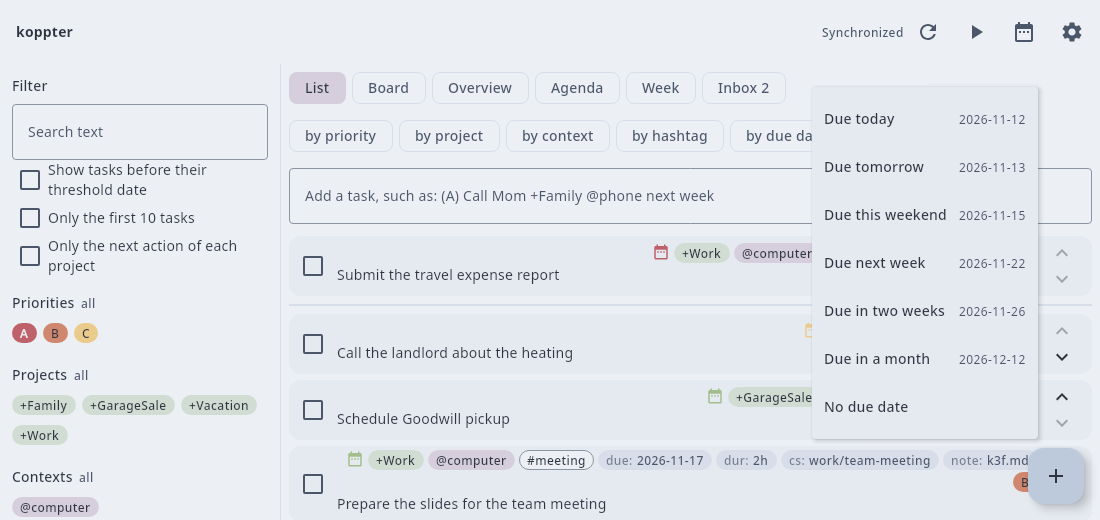
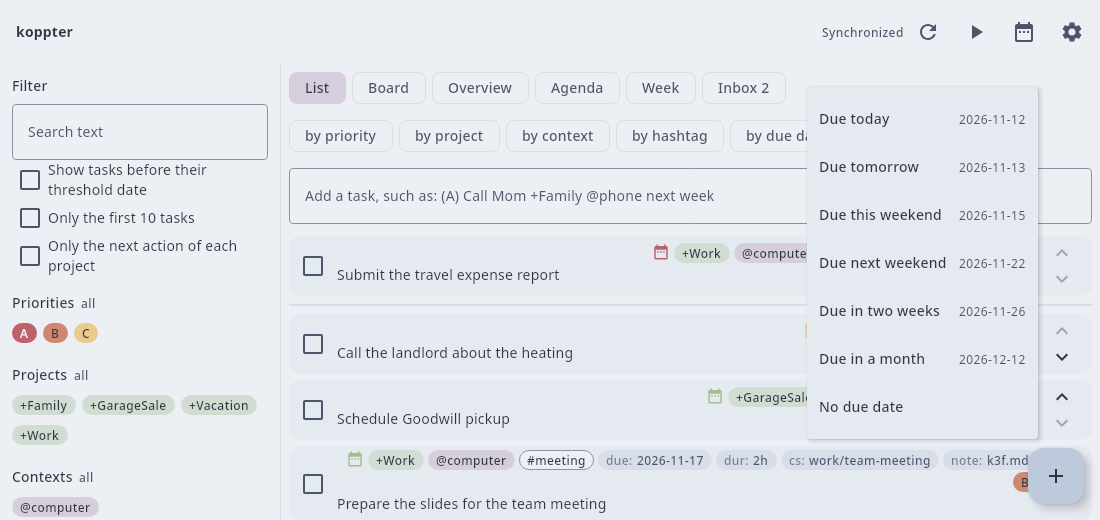
Call the due day at the end of the next week next weekend
The choice set the Sunday of the next week under the name next week, which read like a day a week from now.

diff --git a/app/src/desktopTest/kotlin/io/github/koppor/koppter/ui/AppTest.kt b/app/src/desktopTest/kotlin/io/github/koppor/koppter/ui/AppTest.kt
@@ -211,8 +211,8 @@ class AppTest {
             dueChoices(LocalDate(2026, 11, 12)).map { it.second.toString() },
         )
         // On a Sunday, this weekend is today, and on a Saturday, it is tomorrow.
-        assertEquals(listOf("today", "tomorrow", "next week", "in two weeks", "in a month"), dueChoices(LocalDate(2026, 11, 15)).map { it.first })
-        assertEquals(listOf("today", "tomorrow", "next week", "in two weeks", "in a month"), dueChoices(LocalDate(2026, 11, 14)).map { it.first })
+        assertEquals(listOf("today", "tomorrow", "next weekend", "in two weeks", "in a month"), dueChoices(LocalDate(2026, 11, 15)).map { it.first })
+        assertEquals(listOf("today", "tomorrow", "next weekend", "in two weeks", "in a month"), dueChoices(LocalDate(2026, 11, 14)).map { it.first })
         // The end of January has no day a month later.
         assertEquals(LocalDate(2027, 2, 28), dueChoices(LocalDate(2027, 1, 31)).last().second)
     }

diff --git a/app/src/commonMain/kotlin/io/github/koppor/koppter/ui/TaskList.kt b/app/src/commonMain/kotlin/io/github/koppor/koppter/ui/TaskList.kt
@@ -353,7 +353,8 @@ internal fun dueChoices(today: LocalDate): List<Pair<String, LocalDate>> = listO
     "today" to today,
     "tomorrow" to today.plus(DatePeriod(days = 1)),
     "this weekend" to today.plus(DatePeriod(days = 7 - today.dayOfWeek.isoDayNumber)),
-    "next week" to today.plus(DatePeriod(days = 14 - today.dayOfWeek.isoDayNumber)),
+    // Named after the day it sets, the Sunday: as "next week", it read like a day a week from now.
+    "next weekend" to today.plus(DatePeriod(days = 14 - today.dayOfWeek.isoDayNumber)),
     "in two weeks" to today.plus(DatePeriod(days = 14)),
     "in a month" to today.plus(DatePeriod(months = 1)),
     // On a Sunday, this weekend is today, and on a Saturday, it is tomorrow.

diff --git a/docs/requirements/ui.md b/docs/requirements/ui.md
@@ -105,7 +105,7 @@ Needs: dsn
 ### Moving the due date
 `req~move-due-date~1`
 
-The user moves the due date of a task to a day nearby with one click: today, tomorrow, this weekend, next week, in two weeks or in a month.
+The user moves the due date of a task to a day nearby with one click: today, tomorrow, this weekend, next weekend, in two weeks or in a month.
 In the list, this needs no opening of the task.
 
 Covers:
@@ -425,7 +425,7 @@ Needs: impl, utest
 ### Menu of the due date
 `dsn~due-menu~1`
 
-A click with the secondary mouse button on a task card, or a click on the label of its due date, opens a menu with the days of `dueChoices`: today, tomorrow, this weekend, next week, in two weeks and in a month, each day once.
+A click with the secondary mouse button on a task card, or a click on the label of its due date, opens a menu with the days of `dueChoices`: today, tomorrow, this weekend, next weekend, in two weeks and in a month, each day once; a weekend stands for its Sunday.
 A weekend and a week end on their Sunday, as in the dates that are typed in words.
 Choosing a day calls `TodoController.setDue`, which sets the `due:` tag and leaves the rest of the line as it is.
 For a task with a due date, the menu ends with *No due date*, which removes the tag.

diff --git a/README.md b/README.md
@@ -393,7 +393,7 @@ A line shows where a dragged task would be put.
 * If the task and the one it is put next to are due on different days, it takes the priority and the due date decides its place.
 * No task crosses the line below the overdue tasks: the due date decides on which side a task stands.
 
-A click with the right mouse button on a task, or a click on the label of its due date, opens a menu that moves the due date to today, tomorrow, this weekend, next week, in two weeks or in a month, or removes it.
+A click with the right mouse button on a task, or a click on the label of its due date, opens a menu that moves the due date to today, tomorrow, this weekend, next weekend, in two weeks or in a month, or removes it; a weekend stands for its Sunday.
 The edit dialog offers the same days as chips above the due date, which is the way to them on a phone for a task without a due date.
 A weekend and a week end on their Sunday.
 An overdue task that is moved this way leaves the upper part of the list.

diff --git a/CHANGELOG.md b/CHANGELOG.md
@@ -21,6 +21,7 @@ and this project adheres to [Calendar Versioning](https://calver.org/) with the 
 - The week shows all its hours without scrolling, also on a phone that is held upright.
 - The heading of a group of a priority shows the colored label of the priority, so that a priority named by a number is not read as a count.
 - The dialog of a task is wider, and its description starts with the cursor at the end.
+- The day that the menu of the due date and the dialog of a task called *next week* is called *next weekend*, as it is the Sunday of the next week.
 - The dialogs that choose a file come from the library FileKit: on the desktop, they are those of the operating system, and on Linux that of the desktop portal.
 - A device without a keyboard has no line for a new task above the list, and the dialog of a new task starts with the cursor in the description.
 - A click on the public SSH key in the settings copies it.
